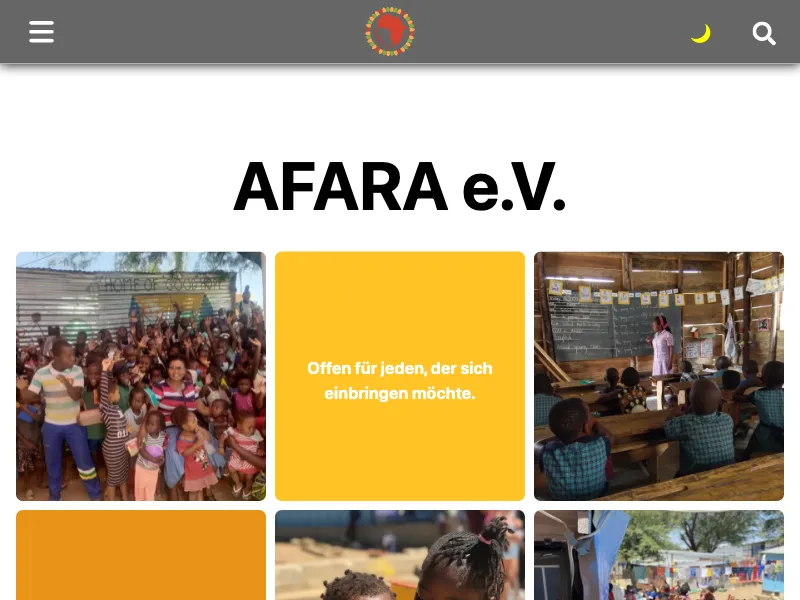
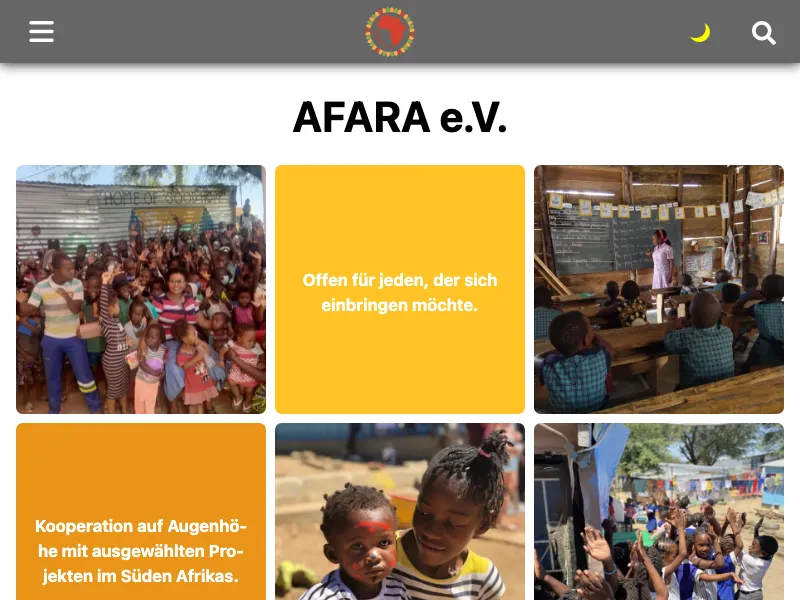
takeScreenshots.js wait 1s for sites with landing animations to settle

diff --git a/site/scripts/takeScreenshots.js b/site/scripts/takeScreenshots.js
@@ -17,7 +17,7 @@ const updateExisting = process.argv[2] === `update-existing`
 
 if (updateExisting) console.log(`Updating all existing screenshots`)
 
-let nChanged = 0
+let [nNew, nUpdated] = [0, 0]
 
 console.time(`Finished taking screenshots`)
 
@@ -25,8 +25,9 @@ for (const [idx, site] of sites.entries()) {
   const id = site.title.toLowerCase().replaceAll(` `, `-`)
 
   const imgPath = `${rootDir}/site/static/screenshots/${id}.webp`
+  const imgExists = fs.existsSync(imgPath)
 
-  if (!updateExisting && fs.existsSync(imgPath)) {
+  if (!updateExisting && imgExists) {
     continue
   }
 
@@ -38,12 +39,15 @@ for (const [idx, site] of sites.entries()) {
     await page.goto(site.url, { timeout: 5000, waitUntil: `load` })
   }
 
+  await page.waitForTimeout(1000) // wait 1s for sites with landing animations to settle
+  // e.g. https://mortimerbaltus.com, https://flayks.com
   await page.screenshot({ path: imgPath })
 
-  nChanged += 1
+  if (imgExists) nUpdated += 1
+  else nNew += 1
 }
 
 await browser.close()
 
 console.timeEnd(`Finished taking screenshots`)
-console.log(`  - ${nChanged} new/updated screenshots`)
+console.log(`  - ${nNew} new, ${nUpdated} updated`)
